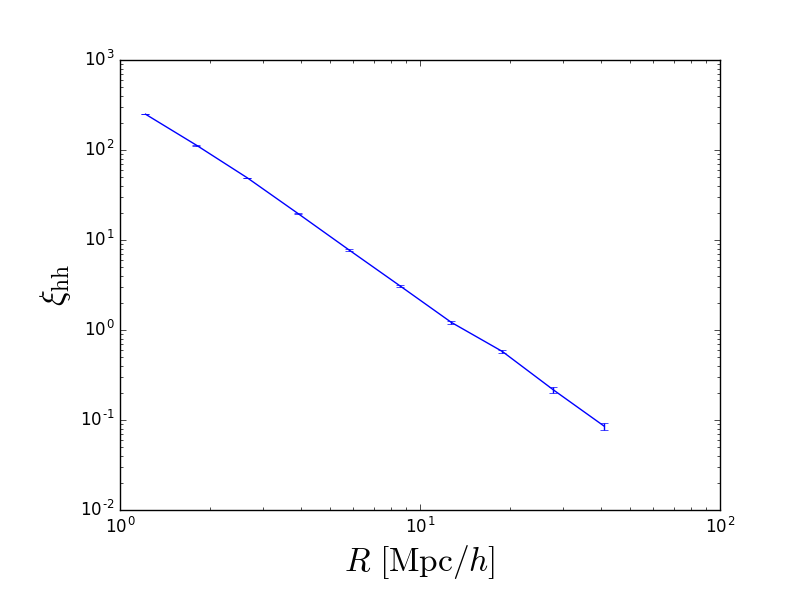
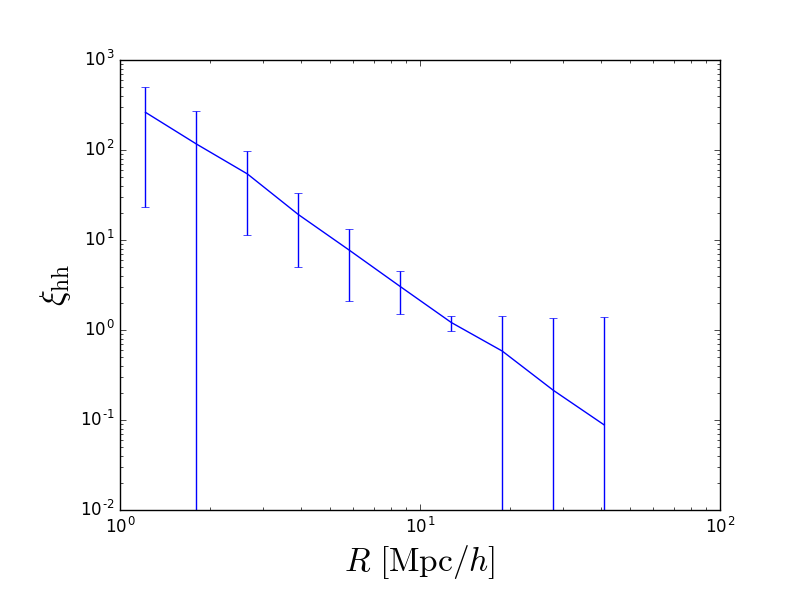
Successfully implemented jackknifing of the halo-halo CF. Included this in the visualization.py file.

diff --git a/encore/hhcf/compute_hhcf_jk.py b/encore/hhcf/compute_hhcf_jk.py
@@ -19,6 +19,7 @@ y_index = indices['y']
 z_index = indices['z']
 m_index = indices['m']
 
+
 def calculate_JK_hhcf(outpath,nbins,limits,edges,Nh,randoms,ndivs):
     """
     Calculate the halo-halo correlation function for the JK subregions.
@@ -33,7 +34,6 @@ def calculate_JK_hhcf(outpath,nbins,limits,edges,Nh,randoms,ndivs):
     """
     #Jackknife subregion step size
     step = (edges[1]-edges[0])/ndivs
-    print "step = ",step
     Njk = int(ndivs**3)
 
     #Read in all halos
@@ -64,15 +64,30 @@ def calculate_JK_hhcf(outpath,nbins,limits,edges,Nh,randoms,ndivs):
     #Find the covariance matrix
     cov = calculate_cov_matrix(outpath,xi_all,nbins,Njk)
     err = np.sqrt(np.diagonal(cov))
+
+    #Output the final data vector
     fullpath = outpath+"halohalo_correlation_function/full_hhcf/full_hhcf.txt"
     data = np.loadtxt(fullpath)
+    R = data[:,0]
     xi_true = data[:,3]
-    #for i in range(nbins):
-    #    print xi_true[i],err[i]
+    make_final_hhcf_data(outpath,R,xi_true,err)
 
-    print "HHCF JK not implemented yet!"
+    print "HHCF JK complete."
     return
 
+def make_final_hhcf_data(outpath,R,xi,err):
+    """
+    Create the finalized data file with the errors.
+    """
+    finalpath = outpath+"/halohalo_correlation_function/final_hhcf/final_hhcf.txt"
+    outfile = open(finalpath,"w")
+    outfile.write("#R Mpc/h; Xi; Xi_JK_err\n")
+    for i in range(len(R)):
+        outfile.write("%.4e\t%.4e\t%.4e\n"%(R[i],xi[i],err[i]))
+    outfile.close()
+    print "Final HHCF JK data created."
+    return
+    
 def calculate_cov_matrix(outpath,xi_all,nbins,Njk):
     """
     Calculate the JK covariance matrix.
@@ -85,7 +100,8 @@ def calculate_cov_matrix(outpath,xi_all,nbins,Njk):
     for i in range(nbins):
         for j in range(nbins):
             cov[i,j] = C*np.sum((xi_true[i]-xi_all[:,i])*(xi_true[j]-xi_all[:,j]))
-        #print xi_true[i],xi_all[:,i]
+    covpath = outpath+"halohalo_correlation_function/cov_matrix/cov_matrix.txt"
+    np.savetxt(covpath,cov)
     return cov
 
 def calculate_xi_LOO(RRa,DDt,DRt,RRt,DDa_all,DRa_all,DDc_all,DRc_all,RRc_all,Njk):
@@ -94,40 +110,30 @@ def calculate_xi_LOO(RRa,DDt,DRt,RRt,DDa_all,DRa_all,DDc_all,DRc_all,RRc_all,Njk
     """
     xi_all = []
     for i in range(Njk):
-        DDl = DDt.copy()
+        DDl = DDt.copy() #Copy the totals
         DRl = DRt.copy()
         RRl = RRt.copy()
-        DDl.meanr[:]-=DDa_all[i].meanr[:]
-        DDl.meanlogr[:]-=DDa_all[i].meanlogr[:]
+        #Remove the auto-correlations
         DDl.weight[:]-=DDa_all[i].weight[:]
         DDl.npairs[:]-=DDa_all[i].npairs[:]
         DDl.tot-=DDa_all[i].tot
-        DRl.meanr[:]-=DRa_all[i].meanr[:]
-        DRl.meanlogr[:]-=DRa_all[i].meanlogr[:]
         DRl.weight[:]-=DRa_all[i].weight[:]
         DRl.npairs[:]-=DRa_all[i].npairs[:]
         DRl.tot-=DRa_all[i].tot
-        RRl.meanr[:]-=RRa.meanr[:]
-        RRl.meanlogr[:]-=RRa.meanlogr[:]
         RRl.weight[:]-=RRa.weight[:]
         RRl.npairs[:]-=RRa.npairs[:]
         RRl.tot-=RRa.tot
-        for j in range(Njk):
-            DDl.meanr[:]-=0.5*DDc_all[i].meanr[:]
-            DDl.meanlogr[:]-=0.5*DDc_all[i].meanlogr[:]
+        for j in range(Njk): #Remove the cross-correlations
             DDl.weight[:]-=0.5*DDc_all[i].weight[:]
             DDl.npairs[:]-=0.5*DDc_all[i].npairs[:]
             DDl.tot-=0.5*DDc_all[i].tot
-            DRl.meanr[:]-=DRc_all[i].meanr[:]
-            DRl.meanlogr[:]-=DRc_all[i].meanlogr[:]
             DRl.weight[:]-=DRc_all[i].weight[:]
             DRl.npairs[:]-=DRc_all[i].npairs[:]
             DRl.tot-=DRc_all[i].tot
-            RRl.meanr[:]-=0.5*RRc_all[i].meanr[:]
-            RRl.meanlogr[:]-=0.5*RRc_all[i].meanlogr[:]
             RRl.weight[:]-=0.5*RRc_all[i].weight[:]
             RRl.npairs[:]-=0.5*RRc_all[i].npairs[:]
             RRl.tot-=0.5*RRc_all[i].tot
+        #Calculate xi_LOO
         xi,varxi = DDl.calculateXi(RRl,DRl)
         xi_all.append(xi)
     print "Leave-one-out HHCFs calculated."
@@ -142,17 +148,12 @@ def calculate_total(RRa,DDa_all,DRa_all,DDc_all,DRc_all,RRc_all,Njk,config):
         DRt+=DRa_all[i]
         DRt+=DRc_all[i]
         RRt+=RRa
-        DDt.meanr[:]+=0.5*DDc_all[i].meanr[:]
-        DDt.meanlogr[:]+=0.5*DDc_all[i].meanlogr[:]
         DDt.weight[:]+=0.5*DDc_all[i].weight[:]
         DDt.npairs[:]+=0.5*DDc_all[i].npairs[:]
         DDt.tot+=0.5*DDc_all[i].tot
-        RRt.meanr[:]+=0.5*RRc_all[i].meanr[:]
-        RRt.meanlogr[:]+=0.5*RRc_all[i].meanlogr[:]
         RRt.weight[:]+=0.5*RRc_all[i].weight[:]
         RRt.npairs[:]+=0.5*RRc_all[i].npairs[:]
         RRt.tot+=0.5*RRc_all[i].tot
-    DDt.write("test_jkhhcf.txt",RRt,DRt)
     print "Resumming HHCF JK total complete."
     return DDt,DRt,RRt
 

diff --git a/visualize.py b/visualize.py
@@ -21,18 +21,18 @@ def plot_MF(lM,N,N_err):
     ylims = ax.get_ylim()
     ax.set_ylabel(r"${\rmNumber\ of\ halos}$",fontsize=24)
     plt.subplots_adjust(bottom=0.15,left=0.15,hspace=0.001)
+    plt.title(r"${\rm Halo\ mass\ function\ at\ }z=3$",fontsize=18)
     plt.show()
     plt.close()
 
 plot_MF(lM,N,N_err)
 
 #Read in the HH_CF data
-#Note: will switch to JK once it's properly implemented
-data_path = "./output/halohalo_correlation_function/full_hhcf/full_hhcf.txt"
+data_path = "./output/halohalo_correlation_function/final_hhcf/final_hhcf.txt"
 data = np.genfromtxt(data_path)
 R = data[:,0]
-xi = data[:,3]
-xi_err = data[:,4]
+xi = data[:,1]
+xi_err = data[:,2]
 def plot_HHCF(R,xi,xi_err):
     fig,ax = plt.subplots(1,1)
     ax.errorbar(R,xi,yerr=xi_err)
@@ -42,6 +42,7 @@ def plot_HHCF(R,xi,xi_err):
     ylims = ax.get_ylim()
     ax.set_ylabel(r"$\xi_{\rm hh}$",fontsize=24)
     plt.subplots_adjust(bottom=0.15,left=0.15,hspace=0.001)
+    plt.title(r"${\rm Halo-halo\ correlation\ function\ at\ }z=3$",fontsize=18)
     plt.show()
     plt.close()
     return

diff --git a/encore/paths/create_paths.py b/encore/paths/create_paths.py
@@ -24,7 +24,7 @@ def create_paths(outpath):
     os.system("mkdir -p %s"%outpath+"/halohalo_correlation_function/full_hhcf")
     os.system("mkdir -p %s"%outpath+"/halohalo_correlation_function/JK_single")
     os.system("mkdir -p %s"%outpath+"/halohalo_correlation_function/JK_combined")
-    os.system("mkdir -p %s"%outpath+"/halohalo_correlation_function/cov_martrix")
+    os.system("mkdir -p %s"%outpath+"/halohalo_correlation_function/cov_matrix")
     os.system("mkdir -p %s"%outpath+"/halohalo_correlation_function/final_hhcf")
     print "Halo-halo correlation function directories created."
 

diff --git a/encore/hhcf/compute_hhcf.py b/encore/hhcf/compute_hhcf.py
@@ -61,7 +61,7 @@ def compute_hhcf(outpath,nbins,limits,edges,do_JK,ndivs):
         import compute_hhcf_jk
         compute_hhcf_jk.calculate_JK_hhcf(outpath,nbins,limits,edges,Nh,randomsjk,ndivs)
 
-    print "Jackknifed halo-halo correlation function not implemented yet!"
+    print "Halo-halo correlation function complete."
     return
 
 def calcalate_hhcf_full(outpath,nbins,limits,Nh,randoms):

diff --git a/encore/mass_function/compute_mass_function.py b/encore/mass_function/compute_mass_function.py
@@ -108,7 +108,7 @@ def make_data_and_cov(outpath,nbins,ndivs,N):
     for i in range(nbins):
         outfile.write("%.4e\t%.4e\t%d\t%e\n"%(bins[i,0],bins[i,1],N[i],np.sqrt(cov[i,i])))
     outfile.close()
-    print "Final JK data and covariance matrix created."
+    print "Final mass function JK data and covariance matrix created."
     return
 
 def combine_JK_mass_function(outpath,nbins,ndivs):

diff --git a/README.md b/README.md
@@ -27,7 +27,7 @@ The test data can create jackknifed mass functions:
 
 ![mf_example](plots/MF_example.png)
 
-or halo-halo correlation functions (note: these are posson error bars for now):
+or halo-halo correlation functions:
 
 ![hhcf_example](plots/HHCF_example.png)
 
